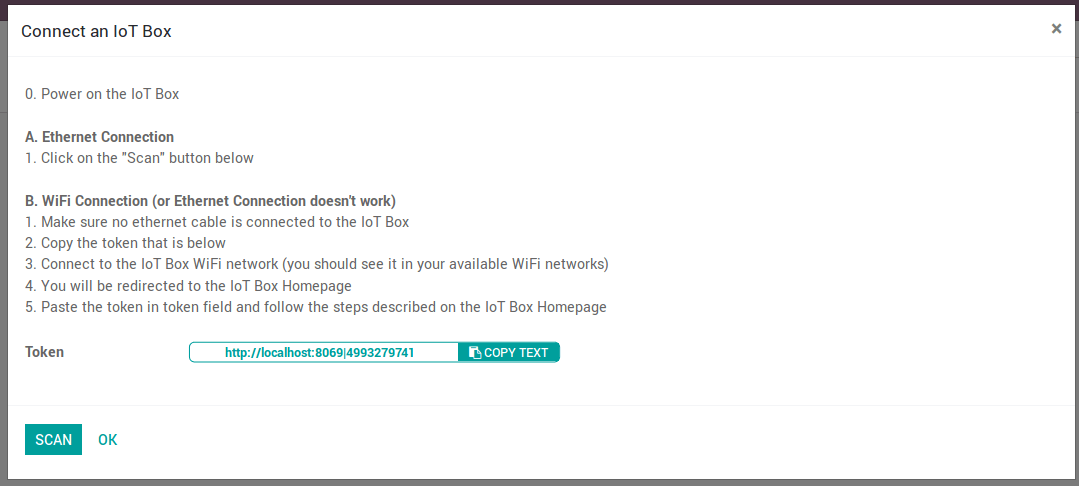
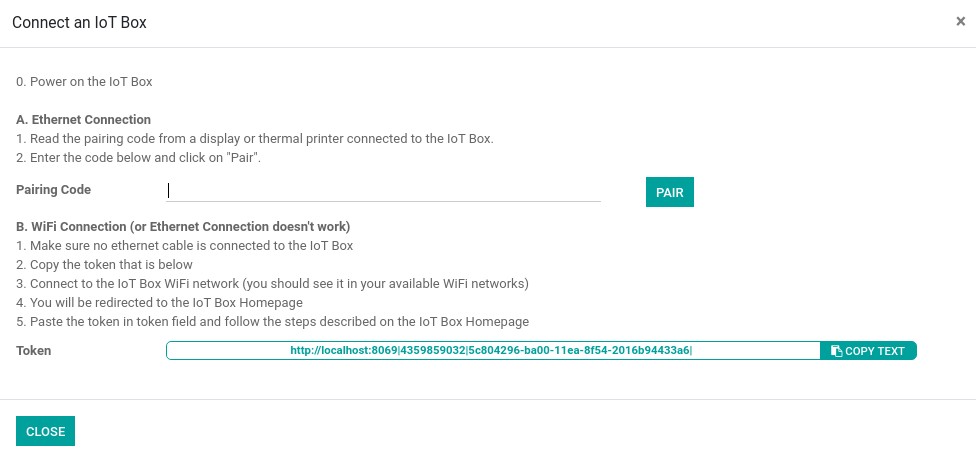
[FIX] iot: Connection process changed
We had to modify the connection method due to changes that will be
introduced soon in modern web browsers. (See odoo/odoo#51088)

We also fix the numbering of the connection steps.

Changed region(s): [[0.0, 0.0, 1.0, 1.0], [0.8299, 0.721, 0.9529, 0.7811], [0.6455, 0.3605, 0.7377, 0.4506]]

diff --git a/iot/config/connect.rst b/iot/config/connect.rst
@@ -25,10 +25,16 @@ Ethernet Connection
 
 2. Power on the IoT Box.
 
-3. Then click on the Scan button.
+3. Read the Pairing Code from a screen or a receipt printer connected to the IoT Box.
 
-.. image:: media/connect04.png
-   :align: center
+   .. image:: media/connect04.png
+
+4. Input the Pairing Code and click on the Pair button.
+
+.. note::
+   Recent changes in modern web browsers forced us to modify the connection wizard.
+   If your screen is different from the screenshots, make sure that the
+   ``iot_pairing`` module is installed.
 
 WiFi Connection
 ~~~~~~~~~~~~~~~
@@ -37,35 +43,31 @@ WiFi Connection
 
 2. Copy the token
 
-.. image:: media/connect05.png
-   :align: center
+   .. image:: media/connect05.png
 
-1. Connect to the IoT Box WiFi Network (make sure there is no ethernet
+3. Connect to the IoT Box WiFi Network (make sure there is no ethernet
    cable plugged in your computer).
 
-.. image:: media/connect06.png
-   :align: center
+   .. image:: media/connect06.png
 
 4. You will be redirected to the IoT Box Homepage (if it doesn't work,
    connect to the IP address of the box). Give a name to your IoT Box (not
    required) and paste the token, then click on next.
 
-.. image:: media/connect07.png
-   :align: center
+   .. image:: media/connect07.png
 
-.. tip::
-   If you are on Runbot, do not forget to add the -all or -base in the
-   token (e.g. this token
-   **http://375228-saas-11-5-iot-f3f920.runbot16.odoo.com\|4957098401**
-   should become
-   **http://375228-saas-11-5-iot-f3f920-all.runbot16.odoo.com\|4957098401**).
+   .. tip::
+      If you are on Runbot, do not forget to add the -all or -base in the
+      token (e.g. this token
+      **http://375228-saas-11-5-iot-f3f920.runbot16.odoo.com\|4957098401**
+      should become
+      **http://375228-saas-11-5-iot-f3f920-all.runbot16.odoo.com\|4957098401**).
 
 5. Choose the WiFi network you want to connect with (enter the password
    if there is one) and click on Submit. Wait a few seconds before being
    redirected to your database.
 
-.. image:: media/connect08.png
-   :align: center
+   .. image:: media/connect08.png
 
 You should now see the IoT Box.
 
